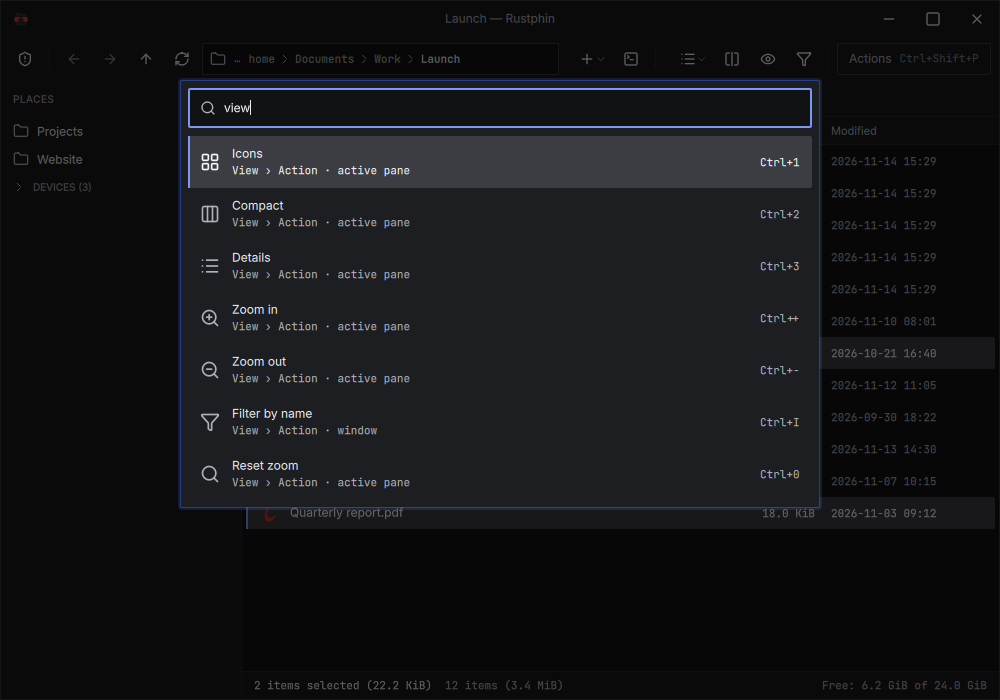
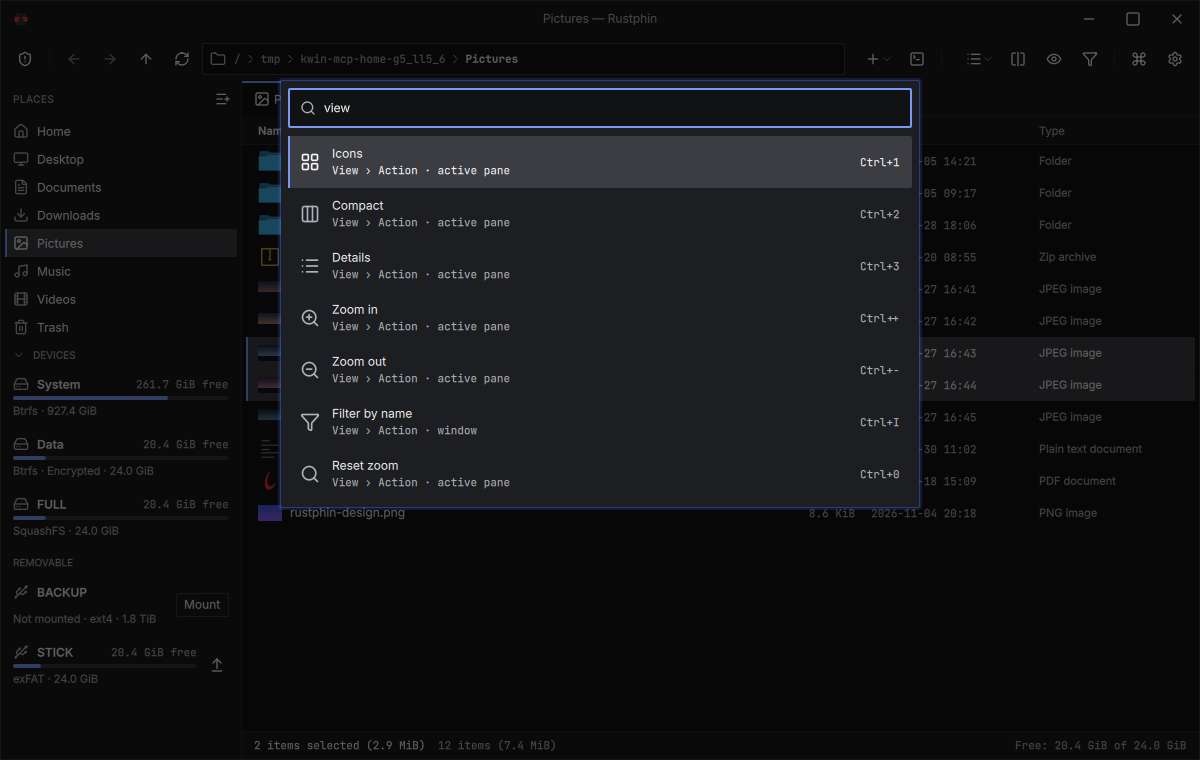
Make the README public-facing with new screenshots (W-163)
The README now describes v0.1.0 as built, with five new pictures of the
current interface taken in an isolated session (test files and made-up
drives only), and gives the v0.2.0 plan. Two batch-rename findings from
taking them are queued for v0.2.0.

diff --git a/README.md b/README.md
@@ -16,12 +16,12 @@ a command palette and safe batch rename.
 
 </div>
 
-![Rustphin's details view: the places panel on the left, a folder of files with two selected, and the location bar showing Documents › Work › Launch](docs/screenshots/rustphin.png)
+![Rustphin showing a Pictures folder in the icons view, with photo thumbnails and two photos selected; on the left the places panel lists the usual folders and the drives with their free space](docs/screenshots/rustphin.png)
 
-> **Status: 0.1.0, early.** Everything below is implemented and tested, and the
-> maintainer is trialling Rustphin as their everyday file manager. Expect rough
-> edges: see [what is still open](#status-and-roadmap) before relying on it for
-> important work.
+> **Status: 0.1.0, the first release.** Everything below is implemented and
+> tested, and the maintainer uses Rustphin as their everyday file manager.
+> Expect rough edges: see [what is still open](#status-and-roadmap) before
+> relying on it for important work.
 
 ## Why Rustphin
 
@@ -55,7 +55,10 @@ a command palette and safe batch rename.
 **Places**
 - KDE's places, shared with Dolphin, plus **place groups** of your own to
   organise them; fold a group to tidy the panel
-- Drives and removable media with their free space; mount, unmount and eject
+- Drives and removable media with their free space, drawn as bars, compact
+  lines or rings (your choice); removable drives in their own group with Mount
+  and Eject on the row, and a drive's Properties with a ring of used space
+- Separators between places, wherever you want them
 - Remote folders (`sftp://`, `smb://`…) through KDE's kio-fuse
 
 **Files**
@@ -79,7 +82,11 @@ a command palette and safe batch rename.
   Rustphin with the file selected
 - Keeps running in the background after its last window closes, so the next
   window opens instantly (optional)
-- A settings window: general behaviour, views, places and confirmations
+- A Settings window you can move, resize and search: start-up, appearance,
+  views, a toolbar you arrange yourself, places, confirmations and shortcuts
+- New windows open at the size you last gave one
+- A transfer line with speed and time left, and a Details window with a card
+  and speed graph for each running copy or move
 
 <p align="center">
   <img src="docs/screenshots/palette.png" alt="The command palette open over a folder, listing the view commands that match &quot;view&quot; with their shortcuts" width="720">
@@ -87,8 +94,27 @@ a command palette and safe batch rename.
   <em>The command palette: every action, place, tab and recent folder, a few letters away.</em>
 </p>
 
-The screenshots show the opaque theme. On the desktop, the window's background
-is frosted glass over whatever is behind it.
+<p align="center">
+  <img src="docs/screenshots/batch-rename.png" alt="The batch rename dialog renaming five photos with the pattern &quot;Dusk ##.jpg&quot;; the preview lists each current name beside its new name, Dusk 01.jpg to Dusk 05.jpg" width="720">
+  <br>
+  <em>Batch rename: every new name is previewed before anything changes.</em>
+</p>
+
+<p align="center">
+  <img src="docs/screenshots/settings.png" alt="The Settings window on its Places page: switches for the Devices and Remote sections, the hidden places choice, the drive style (Bars, Compact or Rings) and the panel width" width="720">
+  <br>
+  <em>Settings: every page searchable, every change applied at once.</em>
+</p>
+
+<p align="center">
+  <img src="docs/screenshots/drives.png" alt="The places panel's drives in the three styles side by side: bars with free space and filesystem, compact lines with a small bar and the percentage used, and rings of used space around each drive's icon" width="600">
+  <br>
+  <em>Drives three ways: bars (the default), compact or rings.</em>
+</p>
+
+The screenshots show the opaque theme, with made-up drives from a test
+service. On the desktop, the window's background is frosted glass over
+whatever is behind it.
 
 ## Requirements
 
@@ -175,21 +201,26 @@ it writes and how to clear them.
 
 ## Status and roadmap
 
-Version 0.1.0 covers browsing, tabs, split view, places and devices, file
-operations with undo, trash, drag and drop, thumbnails, the command palette,
-batch rename, compress and extract, properties, settings, administrator mode
-and desktop integration.
+Version 0.1.0 covers browsing, tabs, split view, places, place groups and
+devices, file operations with undo, trash, drag and drop, thumbnails, the
+command palette, batch rename, compress and extract, properties, settings,
+administrator mode and desktop integration.
 
-Still open before it can be called a Dolphin replacement:
+**Next: 0.2.0, "Daily driver"**
+- Fixes, hardening and improvements, including the checks that need real
+  hardware (USB drives, the frosted glass on a real desktop) and a two-week
+  trial as the maintainer's only file manager.
+- An Arch Linux package (`PKGBUILD`) in the repository.
+- KDE's service menus (the extra actions other applications add to Dolphin's
+  context menu) in Rustphin's context menu.
+- Quick preview: <kbd>Space</kbd> shows a large preview of the file without
+  opening an application.
 
-- a few checks that need real hardware (USB drives, a physical high-refresh
-  display) and a full accessibility pass with a screen reader;
-- search, an information panel, a quick preview and KDE's service menus;
-- packaging and translations.
+**Later:** search (names, then contents through Baloo), an information panel,
+tags and ratings, translations, a light theme, browsing inside archives.
 
-The current state, open items and next steps are tracked in
-[`docs/project/STATE.md`](docs/project/STATE.md) and
-[`docs/project/WORK_ITEMS.md`](docs/project/WORK_ITEMS.md).
+The full plan is in [`docs/project/ROADMAP.md`](docs/project/ROADMAP.md); the
+current state and open items in [`docs/project/STATE.md`](docs/project/STATE.md).
 
 ## How it is built
 
@@ -204,7 +235,7 @@ below it:
 | `rustphin` | The application: Qt 6 Quick and QML through [cxx-qt](https://github.com/KDAB/cxx-qt), and a small C++ shell. |
 
 Almost all behaviour lives in the first three crates, where it is tested
-without a display: about 930 tests, fault injection for every file operation,
+without a display: more than 1,000 tests, fault injection for every file operation,
 property tests, fuzzing of the parsers and mutation testing. The design is in
 [`docs/project/ARCHITECTURE.md`](docs/project/ARCHITECTURE.md), the decisions
 behind it in [`docs/project/DECISIONS.md`](docs/project/DECISIONS.md), and the

diff --git a/docs/project/WORK_ITEMS.md b/docs/project/WORK_ITEMS.md
@@ -26,8 +26,13 @@ S11 — Hardening for daily use (in progress). The interface is Qt 6 and QML sin
 
 - [x] W-161 — Rename works again (the maintainer, 2026-11-15: "Renaming a file/folder isn't working anymore so this should be priority"). Rename from the context menu or the palette opened the name field, then the closing menu handed the keyboard back to the list, and the field, losing focus, ended the rename unchanged; F2 was not affected. The list now leaves an open name field alone (`Pane.focusList`). Regression test, scenario F2b (2026-11-15).
 - [x] W-162 — Every document in `docs/` checked against the build for the release: module lists in AGENTS.md and ARCHITECTURE.md gained `window_size`; ROADMAP's S11 status and STATE's phase say where v0.1.0 stands; the stale HANDOFF.md of 2026-11-14 removed (its content is in STATE, ROADMAP and VALIDATION) (2026-11-15).
-- [ ] W-163 — A public README: what Rustphin is, features, screenshots of the current interface (isolated session, test files), build, install and run, licence.
+- [x] W-163 — A public README: what Rustphin is, features (drive styles, the Settings window, the remembered window size, transfer details added), five screenshots of the current interface taken in an isolated session with the mockup scene and the stand-in UDisks2 (no real drive or file shown): icons view, command palette, batch rename, Settings, the three drive styles; the status and roadmap section now gives v0.2.0's plan (2026-11-15).
 - [ ] W-164 — Tag `v0.1.0` and publish the GitHub release, with notes the maintainer approves.
+
+## v0.2.0, Slice S13 — Fixes, hardening and improvements (D-040)
+
+- [ ] W-165 — Batch rename's Pattern: the default `@-#` gives `IMG_4819.jpg-1`, the counter after the extension; Dolphin keeps the extension (`@` and `#` apply to the name's stem). Found while taking the README screenshots (2026-11-15).
+- [ ] W-166 — Batch rename's Pattern: the two counter fields (start and step) show no label, only their numbers. Found likewise.
 - [x] W-157 — Settings in a window of its own (the maintainer, 2026-11-15: "so that way user can move and resize"): a popup cannot leave or outgrow the main window, so Settings is a window kept above the one that opened it, not blocking it, opening at 800 × 576 and resizable to 480 × 360, following the Title bar setting (its own frame and resize bands, or KWin's). Scenarios ST1, RS11, RS12 (2026-11-15).
 - [x] W-158 — Every Settings option checked in the running app (the maintainer, 2026-11-15: "some of the options … are not doing anything"). Fixed: Show pictures' thumbnails was never read; Keep running took effect only at the next start; the drive cards kept their units when Sizes changed; a page opened where the last one was scrolled. Every other option was seen doing what it says. Scenarios RS13–RS16 (2026-11-15).
 - [x] W-156 — Small fixes (the maintainer, 2026-11-15): Settings now ends the toolbar, after Command palette; the rows of Settings' page list, its Toolbar lists and its drop-downs are centred (the style's vertical padding had pushed their icon and words 4 px down); tooltips open below their control. Scenario TB10, RS10 (2026-11-15).

diff --git a/docs/project/VALIDATION.md b/docs/project/VALIDATION.md
@@ -1,5 +1,13 @@
 # Validation evidence
 
+### 2026-11-15 — W-163 Public README
+- **Phase:** 7 Release (v0.1.0)
+- **Result:** pass
+- **Evidence:** five screenshots taken in an isolated KWin session with an isolated home filled by `tests/ui/make-mockup-home.sh` and drives from the stand-in UDisks2 on a private bus, opaque theme, window 1200 × 760 (set through `window.toml`): `rustphin.png` (icons view, thumbnails, two photos selected), `palette.png`, `batch-rename.png` (five photos, pattern "Dusk ##.jpg"), `settings.png` (Places page with Drives › Style), `drives.png` (Bars, Compact and Rings side by side). Each frame was kept only when its accent pixel read `#7B98F2` (the isolated session swaps red and blue in some frames); none shows the maintainer's drives, files or name. README.md describes v0.1.0's features as built and v0.2.0's plan (ROADMAP.md, D-040); its build and install commands name files that exist (`assets/rustphin.desktop`, `assets/icons/hicolor`, `assets/rustphin.svg`).
+- **Not verified:** how GitHub renders the README (seen only as Markdown); the System drive in the pictures is the test machine's root filesystem as the stand-in reports it.
+- **Waiver:** none
+- **Follow-up:** W-165 and W-166, found while taking the pictures.
+
 ### 2026-11-15 — W-162 Documents checked for v0.1.0
 - **Phase:** 7 Release (v0.1.0)
 - **Result:** pass

diff --git a/docs/project/STATE.md b/docs/project/STATE.md
@@ -15,7 +15,7 @@
 
 ## Current evidence
 - Latest passed gate: 5 Architecture (2026-10-12)
-- Latest validation entry: VALIDATION.md, 2026-11-15 — W-162 Documents checked for v0.1.0
+- Latest validation entry: VALIDATION.md, 2026-11-15 — W-163 Public README
 - Acceptance: ACCEPTANCE.md lists every open criterion and who can close it (re-mapped 2026-11-14 for the Qt interface).
 
 ## Open loops
@@ -37,7 +37,7 @@
 - None for the agent. The real-desktop and hardware checks above wait on the maintainer.
 
 ## Next action
-- Release v0.1.0 (D-040, ROADMAP.md): W-161 rename works again (done), W-162 documents (done), then W-163 public README, W-164 tag and GitHub release with notes the maintainer approves.
+- Release v0.1.0 (D-040, ROADMAP.md): W-161 rename works again (done), W-162 documents (done), W-163 public README (done), then W-164 tag and GitHub release with notes the maintainer approves.
 - Then v0.2.0 "Daily driver": S13 fixes and hardening (the trial and the real-desktop checks move here), S14 the PKGBUILD, S15 service menus, S16 quick preview.
 - For the maintainer on the real desktop: after installing a build, run `rustphin --quit` once so the new build answers launches; then the checks under "Manual" above.
 
